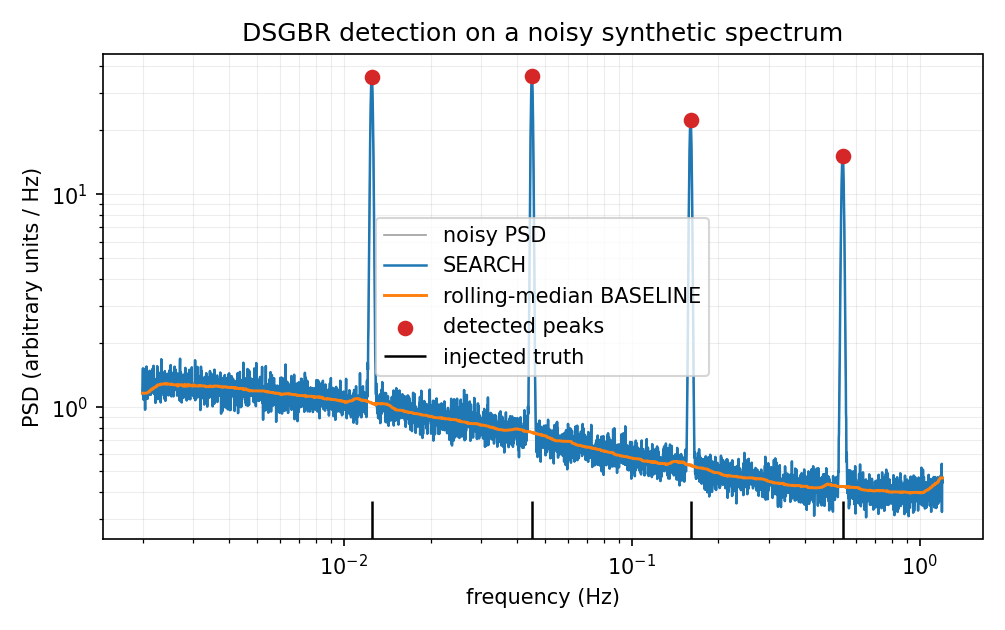
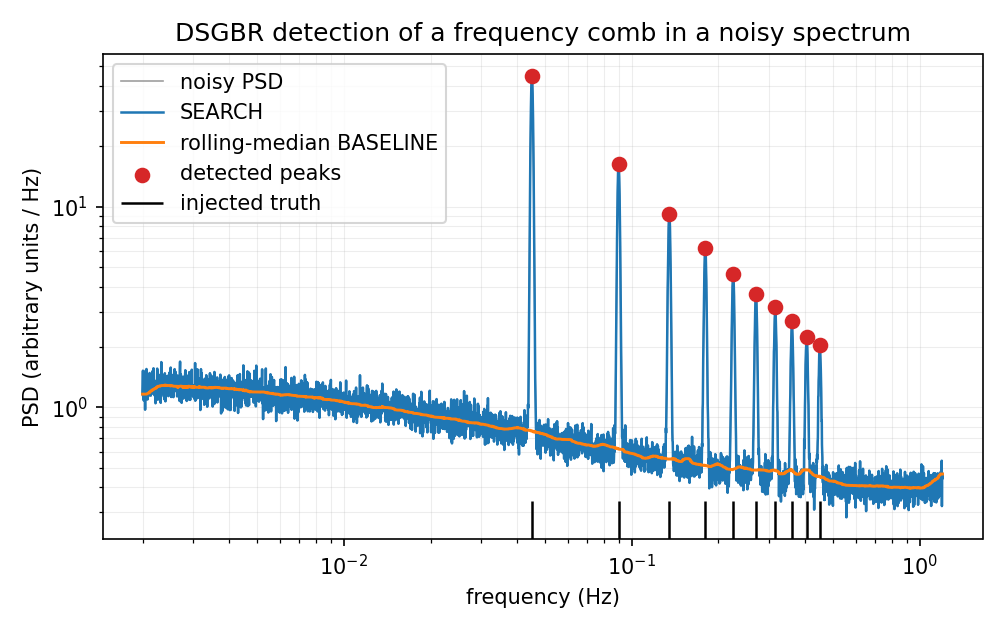
docs: use a frequency-comb scenario for the README detection figure
Ten harmonics crowding on the log axis, all recovered with default
parameters and no false positives - a harder case than isolated tones.

Changed region(s): [[0.0617, 0.0302, 0.9562, 0.8444]]

diff --git a/examples/readme_figure.py b/examples/readme_figure.py
@@ -13,9 +13,12 @@ SEED = 20260611
 N_POINTS = 4096
 F_MIN_HZ = 0.002
 F_MAX_HZ = 1.2
-TRUTH_HZ = np.array([0.0125, 0.045, 0.16, 0.54])
-PEAK_GAINS = np.array([34.0, 48.0, 42.0, 36.0])
-PEAK_WIDTH_DECADES = np.array([0.0045, 0.004, 0.0042, 0.0046])
+# Frequency comb: fundamental plus harmonics, as shed by a periodic wake
+F0_HZ = 0.045
+N_HARMONICS = 10
+TRUTH_HZ = F0_HZ * np.arange(1, N_HARMONICS + 1)
+PEAK_GAINS = 60.0 / np.arange(1, N_HARMONICS + 1) ** 1.2
+PEAK_WIDTH_DECADES = np.full(N_HARMONICS, 0.004)
 NOISE_SIGMA = 0.10
 OUTPUT = Path("docs/figures/readme_detection.png")
 
@@ -70,7 +73,7 @@ def main() -> None:
         label="injected truth",
     )
     ax.set_ylim(ymin, ymax)
-    ax.set_title("DSGBR detection on a noisy synthetic spectrum")
+    ax.set_title("DSGBR detection of a frequency comb in a noisy spectrum")
     ax.set_xlabel("frequency (Hz)")
     ax.set_ylabel("PSD (arbitrary units / Hz)")
     ax.legend(loc="best", frameon=True)

diff --git a/README.md b/README.md
@@ -14,8 +14,11 @@ low-frequency power or misses everything at high frequency.
 
 ![DSGBR detection example](docs/figures/readme_detection.png)
 
-Noisy synthetic spectrum with injected peaks, generated by
-`examples/readme_figure.py` using the default detector parameters.
+A ten-harmonic frequency comb in a noisy, sloped synthetic spectrum: all ten
+peaks recovered with no false positives, using the default detector
+parameters. The harmonics crowd together on the log axis, which is where
+fixed-threshold detectors start merging or missing peaks. Generated by
+`examples/readme_figure.py`.
 
 ## Install
 